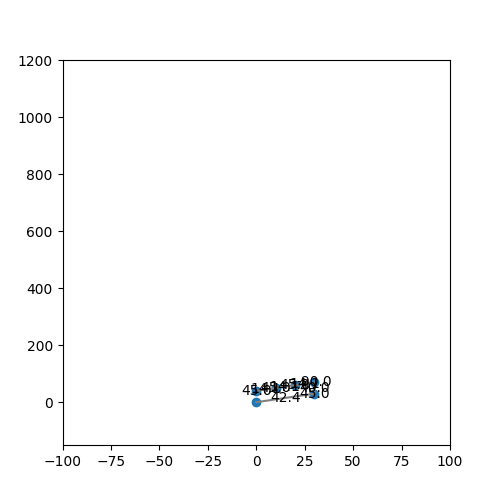
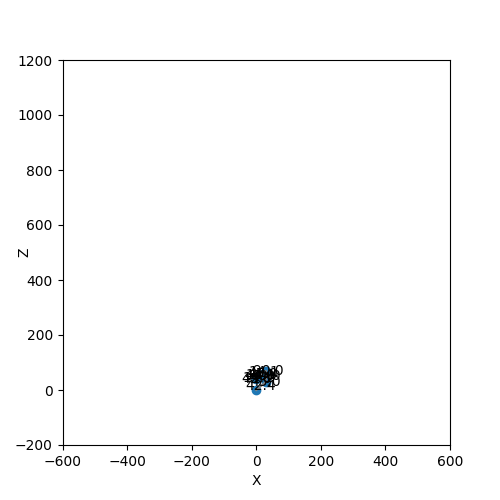
pdf workie

diff --git a/main.py b/main.py
@@ -171,7 +171,7 @@ def writeToDB(imie, nazwisko, concat):
     conn.close()
 
 
-def plotPoints2d(pointsx, pointsy, window, saveAs):
+def plotPoints2d(pointsx, pointsy, window, saveAs, xlabel):
     # calculating distances between points
     distances = euclid2d(pointsx, pointsy)
     print("x")
@@ -190,8 +190,11 @@ def plotPoints2d(pointsx, pointsy, window, saveAs):
     ax.plot(pointsx, pointsy, 'gray')
     ax.scatter(pointsx, pointsy)
 
-    ax.set_xlim([-100, 100])
-    ax.set_ylim([-150, 1200])
+    ax.set_xlim([-600, 600])
+    ax.set_ylim([-200, 1200])
+    ax.set_ylabel('Z', labelpad=-12)
+    ax.set_xlabel(xlabel)
+
 
     # Show distances between points
     for i in range(5):
@@ -378,10 +381,10 @@ def getUSBpokaz():
     # print(points[2])
     # previewPlot()
     print("xz:")
-    xzprojection = plotPoints2d(points[0], points[2], root, 'xzprojection.png')
+    xzprojection = plotPoints2d(points[0], points[2], root, 'xzprojection.png', 'X')
     xzprojection.grid(row=1, column=2, rowspan=3, columnspan=2)
     print("yz:")
-    yzprojection = plotPoints2d(points[1], points[2], root, 'yzprojection.png')
+    yzprojection = plotPoints2d(points[1], points[2], root, 'yzprojection.png', 'Y')
     yzprojection.grid(row=1, column=4, rowspan=3, columnspan=2)
     now = datetime.now()
 
@@ -390,18 +393,26 @@ def portSelect(choice):
     port = choice
 
 
-def printOut(imie, nazwisko):#, dataUrodzenia, pesel, dataPomiaru, opis):
+def printOut(imie, nazwisko, dataUrodzenia, pesel, dataPomiaru, opis):
     statusBar["text"] = "Printing..."
     pdf = PDF()
     pdf.add_page()
     pdf.image("xzprojection.png",h=125)
     pdf.image("yzprojection.png",h=125)
-    pdf.text(imie, y=10)
-    pdf.text(nazwisko, y=20)
-  #  pdf.text(dataUrodzenia, y=30)
-   # pdf.text(pesel, y=40)
-   # pdf.text(dataPomiaru, y =50)
-  #  pdf.text(opis, y=60)
+    pdf.set_font("Arial")
+    pdf.text(130, 50, txt=imie)
+    pdf.text(130, 60, txt=nazwisko)
+    pdf.text(130, 70, txt=str(dataUrodzenia))
+    pdf.text(130, 80, txt=pesel)
+    pdf.text(130, 90, txt=dataPomiaru)
+    pdf.set_xy(120, 110)
+    pdf.multi_cell(100, 5, txt=opis)
+
+    # pdf.text(nazwisko, y=20)
+    # pdf.text(dataUrodzenia, y=30)
+    # pdf.text(pesel, y=40)
+    # pdf.text(dataPomiaru, y =50)
+    # pdf.text(opis, y=60)
     pdf.output('pomiar.pdf', 'F')
 
 
@@ -415,9 +426,9 @@ def testPoints():
     points[2, 4] = 30
     print(points)
     # previewPlot()
-    xzprojection = plotPoints2d(points[0], points[2], root, 'xzprojection.png')
+    xzprojection = plotPoints2d(points[0], points[2], root, 'xzprojection.png', 'X')
     xzprojection.grid(row=1, column=1, rowspan=3, columnspan=3, sticky="NS", pady=10)
-    yzprojection = plotPoints2d(points[1], points[2], root, 'yzprojection.png')
+    yzprojection = plotPoints2d(points[1], points[2], root, 'yzprojection.png', 'Y')
     yzprojection.grid(row=1, column=4, rowspan=3, columnspan=2, sticky="NS", pady=10)
     statusBar["text"] = "wygenerowano punkty testowe"
 
@@ -428,7 +439,7 @@ root.config(menu=menubar)
 
 fileMenu = tk.Menu(menubar, tearoff=0)
 menubar.add_cascade(label="Plik", menu=fileMenu)
-fileMenu.add_command(label="Drukuj", command=lambda: printOut(ImieField.get(), NazwiskoField.get()))# DataUrodzeniaSelector.get_date(), PeselField.get(), DataPomiaruField.get(), NotesField.get("1.0", "end")))
+fileMenu.add_command(label="Drukuj", command=lambda: printOut(ImieField.get(), NazwiskoField.get(), DataUrodzeniaSelector.get_date(), PeselField.get(), DataPomiaruField.get(), NotesField.get("1.0", "end")))
 fileMenu.add_command(label="Zapisz", command=lambda: writeToDB(ImieField.get(), NazwiskoField.get(), concatenation()))
 
 menubar.add_command(label="Punkty testowe", command=testPoints)
